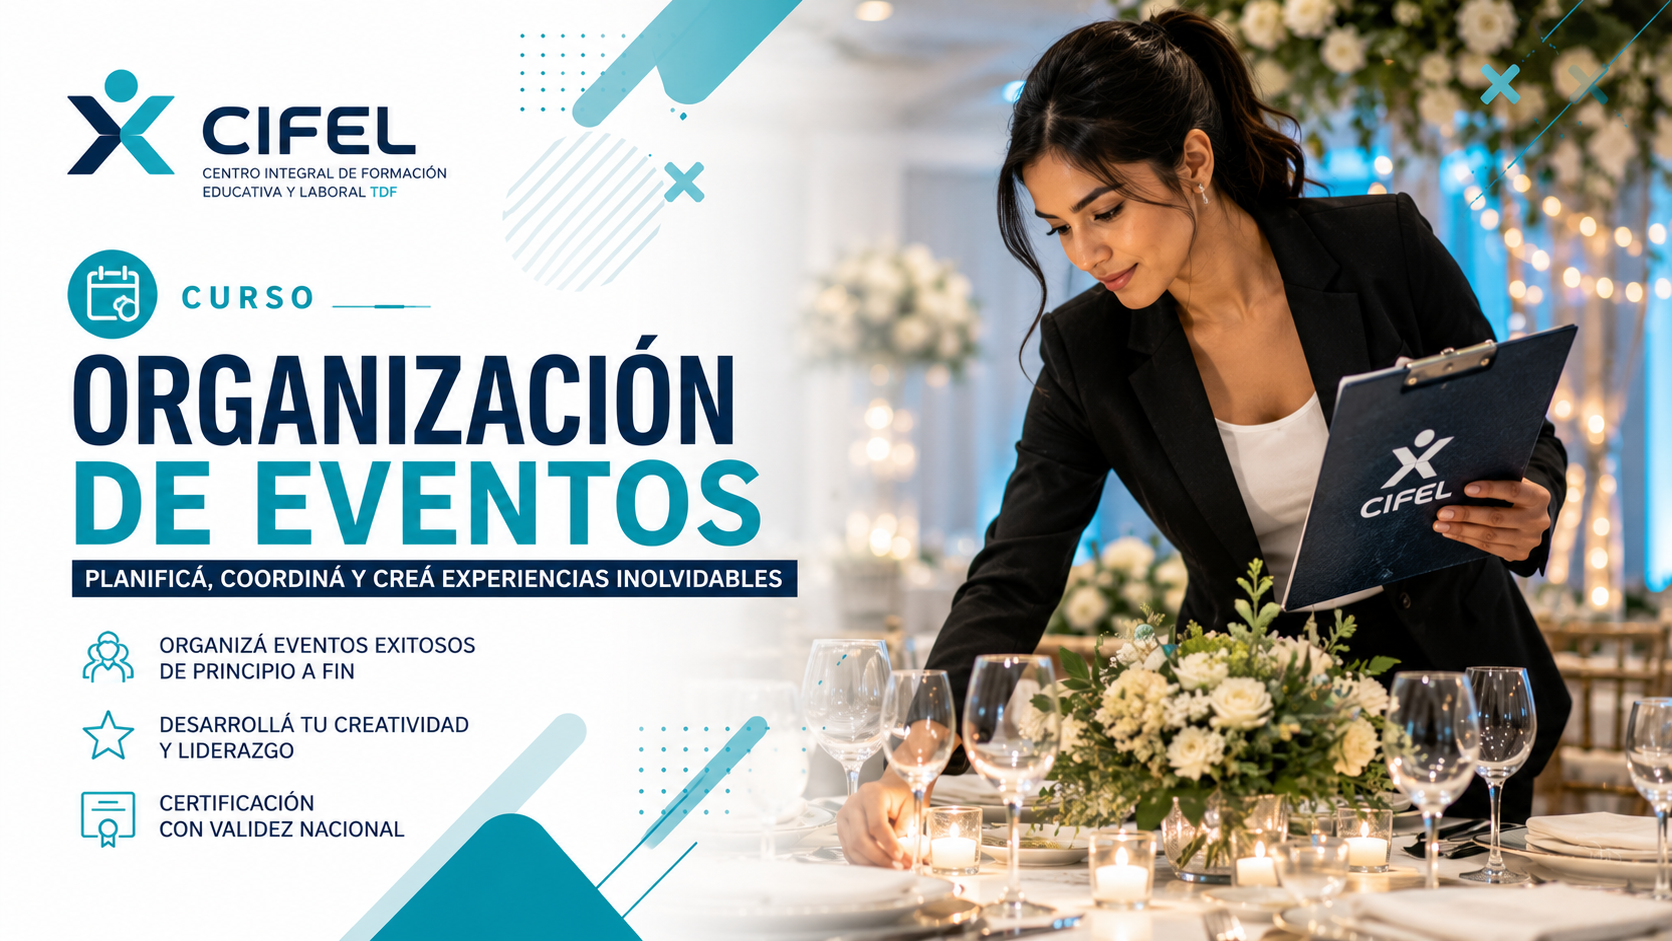
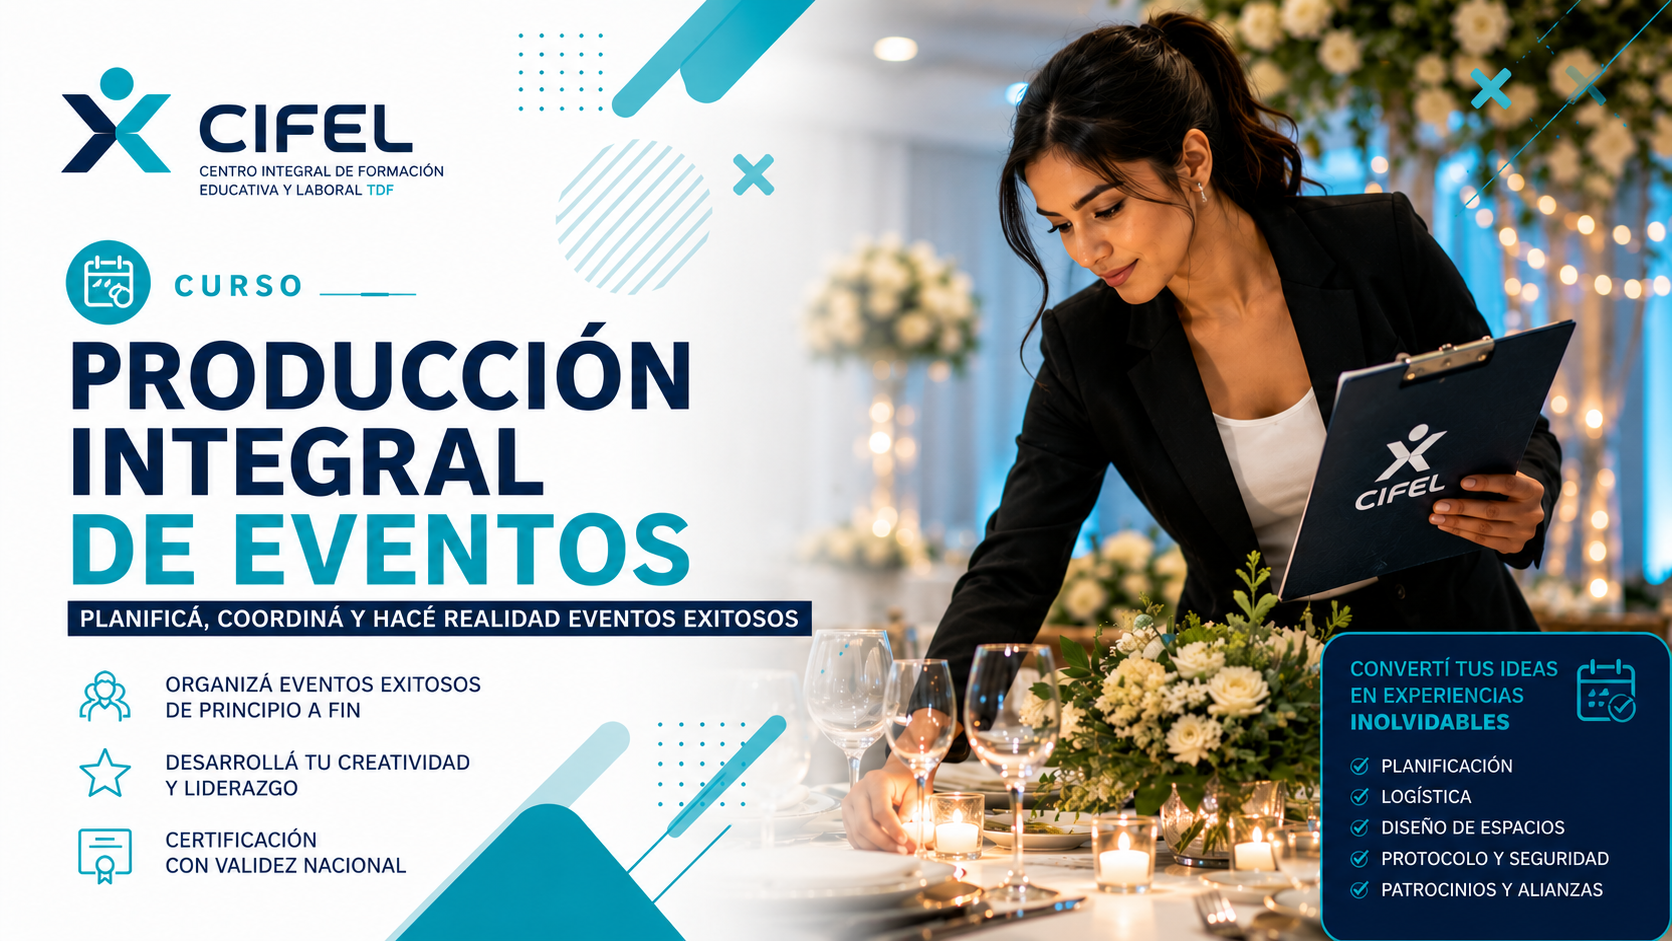
actualizacion de imagenes

diff --git a/index.html b/index.html
@@ -512,16 +512,18 @@
     }
 
     .hero-visual {
-      position: relative;
-      min-height: 540px;
-    }
+    position: relative;
+    min-height: 540px;
+    display: flex;
+    justify-content: center;
+    align-items: center;
+}
 .hero-image{
     width:100%;
-    height:540px;
-    object-fit:cover;
+    max-width:640px;
+    display:block;
     border-radius:28px;
     box-shadow:0 30px 70px rgba(3,40,66,.20);
-    display:block;
 }
     .big-mark {
       position: absolute;
@@ -1128,11 +1130,19 @@
       grid-template-columns: .82fr 1.18fr;
       gap: 70px;
     }
+.contact-banner{
+    width:100%;
+    display:block;
+    border-radius:24px;
+    margin-bottom:30px;
+    box-shadow:0 25px 60px rgba(3,40,66,.18);
+}
 
-    .contact-info p {
+.contact-info p {
       color: var(--muted);
       font-size: .9rem;
-    }
+}
+    
 
     .contact-methods {
       display: grid;
@@ -1783,9 +1793,16 @@
         height: 220px;
       }
 
-      .about-visual {
-        min-height: 430px;
-      }
+      .about-visual{
+    position:relative;
+}
+
+.about-cifel-image{
+    width:100%;
+    display:block;
+    border-radius:28px;
+    box-shadow:0 28px 70px rgba(3,40,66,.18);
+}
 
       .about-image-main {
         height: 390px;
@@ -1963,44 +1980,17 @@
         </div>
 
         <div class="hero-visual">
-    <img src="assets/img/hero-cifel.png" alt="CIFEL" class="hero-image">
+
+    <img src="assets/img/hero-cifel.png"
+         alt="Estudiantes de CIFEL"
+         class="hero-image">
+
+    <div class="mini-badge">
+        <i data-lucide="award" width="19"></i>
+        Formación de calidad
+    </div>
+
 </div>
-
-          <svg class="mascot" viewBox="0 0 180 200" aria-label="Pulpo, mascota de CIFEL">
-            <defs>
-              <linearGradient id="octo" x1="0" x2="1" y1="0" y2="1">
-                <stop offset="0" stop-color="#25c1d1"/>
-                <stop offset="1" stop-color="#087e9d"/>
-              </linearGradient>
-            </defs>
-            <path d="M61 99c-25 9-26 27-45 25-7-1-12-8-8-14 3-5 9-2 8 2 0 4 6 4 10-1 8-11 12-23 29-29z" fill="url(#octo)"/>
-            <path d="M67 108c-18 18-10 34-25 43-7 4-15 1-15-6 0-6 7-6 8-2 1 4 7 1 9-5 4-13 3-26 17-39z" fill="url(#octo)"/>
-            <path d="M80 112c-8 23 5 34-3 49-4 7-13 8-16 2-2-5 4-9 7-5 3 3 7-1 7-8-1-13-6-24 0-42z" fill="url(#octo)"/>
-            <path d="M101 111c10 23-2 35 8 49 5 6 14 6 16 0 2-6-5-8-8-4-2 4-7 0-7-7 0-13 4-25-3-42z" fill="url(#octo)"/>
-            <path d="M116 106c18 18 11 34 27 42 7 4 15 0 14-7-1-5-8-5-9 0-1 4-7 1-9-5-5-13-4-26-18-38z" fill="url(#octo)"/>
-            <path d="M123 97c25 8 27 26 46 23 8-1 11-9 7-14-4-5-9-1-8 3 1 4-6 5-10 0-8-11-13-22-30-28z" fill="url(#octo)"/>
-            <path d="M45 80C45 43 63 20 90 20s45 23 45 60c0 29-18 48-45 48S45 109 45 80z" fill="url(#octo)"/>
-            <ellipse cx="72" cy="73" rx="11" ry="9" fill="#fff"/>
-            <ellipse cx="108" cy="73" rx="11" ry="9" fill="#fff"/>
-            <circle cx="74" cy="74" r="4" fill="#032842"/>
-            <circle cx="106" cy="74" r="4" fill="#032842"/>
-            <path d="M74 92c9 8 23 8 32 0" fill="none" stroke="#04344f" stroke-width="4" stroke-linecap="round"/>
-            <path d="M58 58h28l-3 18H61zM94 58h28l-3 18H97z" fill="#071b28" opacity=".94"/>
-            <path d="M85 64h10" stroke="#071b28" stroke-width="4"/>
-          </svg>
-
-          <div class="visual-card">
-            <div class="visual-card-top">
-              <div class="icon-circle"><i data-lucide="graduation-cap" width="24"></i></div>
-              <div>
-                <h3>Tu próximo nivel</h3>
-                <p>Aprendé. Crecé. Transformá tu futuro.</p>
-              </div>
-            </div>
-            <div class="progress" aria-label="Progreso ilustrativo"><span></span></div>
-          </div>
-        </div>
-      </div>
     </section>
 
     <section class="feature-strip" aria-label="Beneficios de CIFEL">
@@ -2109,11 +2099,11 @@
                 <span><i data-lucide="clock-3" width="14"></i> 4 semanas</span>
                 <span><i data-lucide="signal" width="14"></i> Inicial</span>
               </div>
-              <h3>Organización de Eventos</h3>
+              <h3>Producción Integral de Eventos</h3>
               <p>Planificá eventos sociales, institucionales y empresariales con una metodología profesional.</p>
               <div class="course-footer">
                 <span class="course-mode">Clases Presenciales o Clases virtuales en vivo</span>
-                <button class="course-link" data-course="Organización de Eventos" data-duration="7 semanas" data-mode="Online en vivo" data-level="Intermedio">Ver programa <i data-lucide="arrow-right" width="15"></i></button>
+                <button class="course-link" data-course="Producción Integral de Eventos" data-duration="7 semanas" data-mode="Online en vivo" data-level="Intermedio">Ver programa <i data-lucide="arrow-right" width="15"></i></button>
               </div>
             </div>
           </article>
@@ -2161,17 +2151,13 @@
 
     <section class="about-section" id="nosotros">
       <div class="container about-grid">
+        
         <div class="about-visual">
-          <div class="about-image-main">
-            <img src="https://images.unsplash.com/photo-1524178232363-1fb2b075b655?auto=format&fit=crop&w=1000&q=85" alt="Clase de formación profesional">
-          </div>
-          <div class="about-image-small">
-            <img src="https://images.unsplash.com/photo-1516321318423-f06f85e504b3?auto=format&fit=crop&w=700&q=85" alt="Estudiante trabajando con una computadora">
-          </div>
-          <div class="experience-badge">
-            <div><strong>100%</strong><span>Enfoque<br>práctico</span></div>
-          </div>
-        </div>
+    <img
+        src="assets/img/about-cifel.png"
+        class="about-cifel-image"
+        alt="Capacitación en CIFEL">
+</div>
 
         <div class="about-copy">
           <span class="eyebrow">Sobre CIFEL</span>
@@ -2251,7 +2237,7 @@
             <a href="#contacto" class="btn btn-white">Quiero recibir novedades <i data-lucide="bell" width="17"></i></a>
           </div>
           <div class="location-image">
-            <img src="https://images.unsplash.com/photo-1577801599718-f4e3ad3fc794?auto=format&fit=crop&w=1100&q=85" alt="Paisaje de montaña en Tierra del Fuego">
+            <img src="assets/img/about/about-classroom.webp" alt="Capacitación profesional en CIFEL">
           </div>
         </div>
       </div>
@@ -2260,6 +2246,9 @@
     <section class="contact-section" id="contacto">
       <div class="container contact-grid">
         <div class="contact-info">
+          <img src="assets/img/contacto-cifel.png"
+     class="contact-banner"
+     alt="Inscribite en CIFEL">
           <span class="eyebrow">Inscribite hoy</span>
           <h2>¿Listo para <span class="accent">comenzar?</span></h2>
           <p>Completá tus datos para reservar tu vacante. Al finalizar serás dirigido a Mercado Pago para realizar el pago de la inscripción.</p>
@@ -2327,7 +2316,7 @@
                 <option>Inteligencia Artificial aplicada al Trabajo</option>
                 <option>Marketing Digital</option>
                 <option>Creación de Contenido para Redes Sociales</option>
-                <option>Organización de Eventos</option>
+                <option>Producción Integral de Eventos</option>
                 <option>Comunicación Estratégica y Campañas</option>
                 <option>Mozo de Salón y Atención Gastronómica</option>
 
